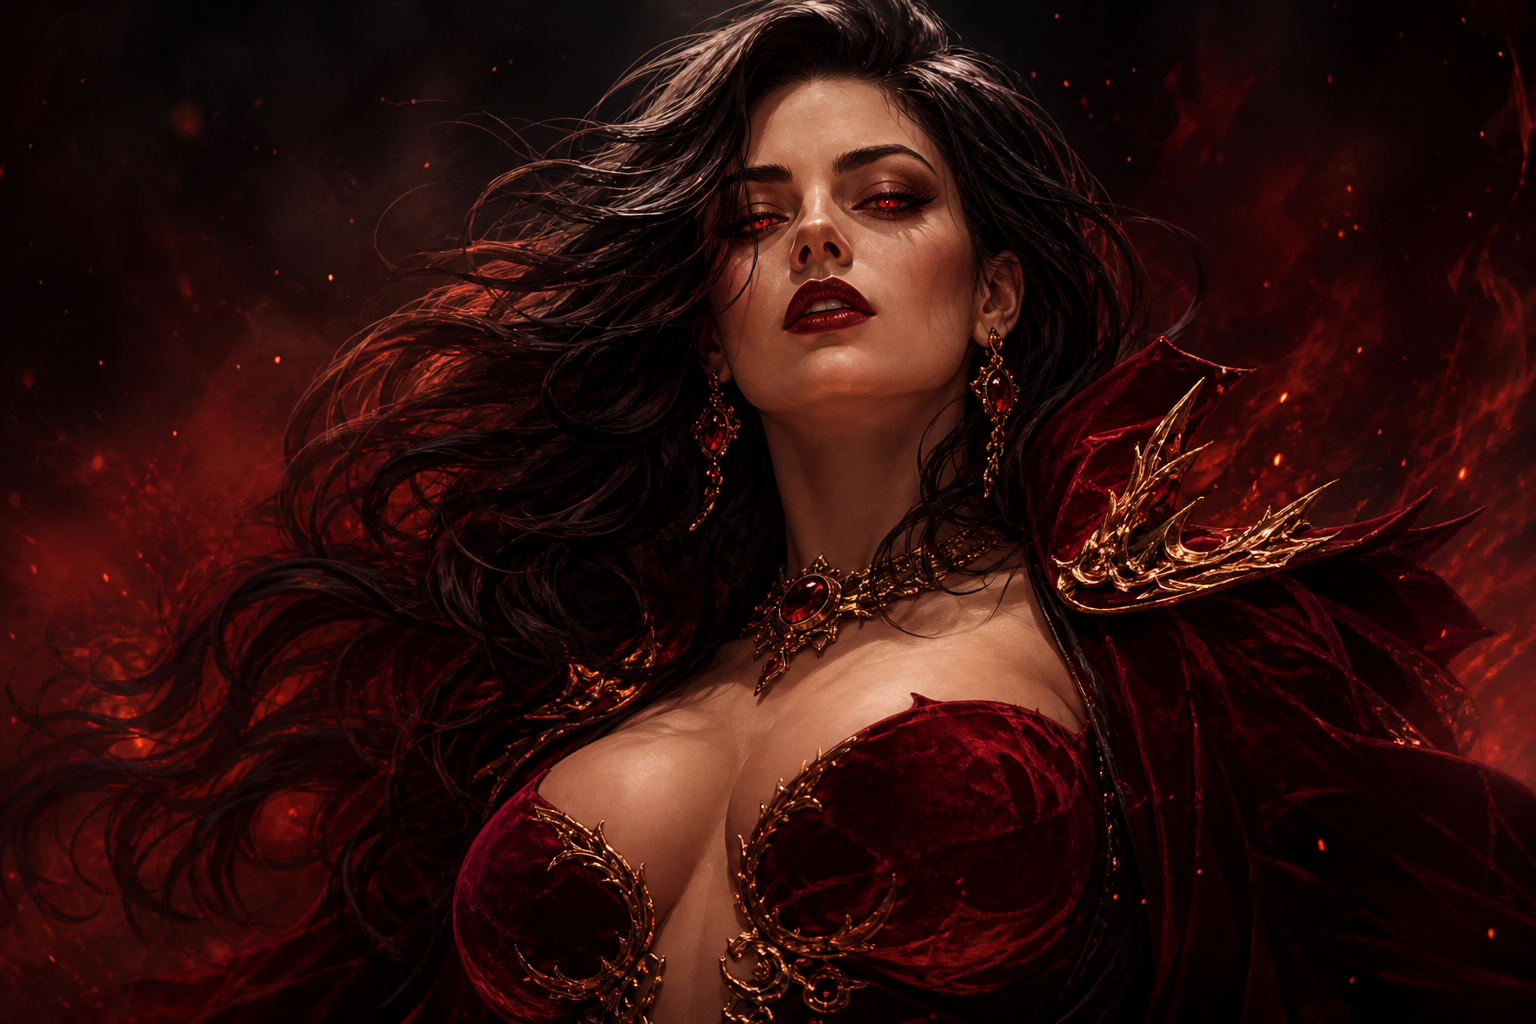
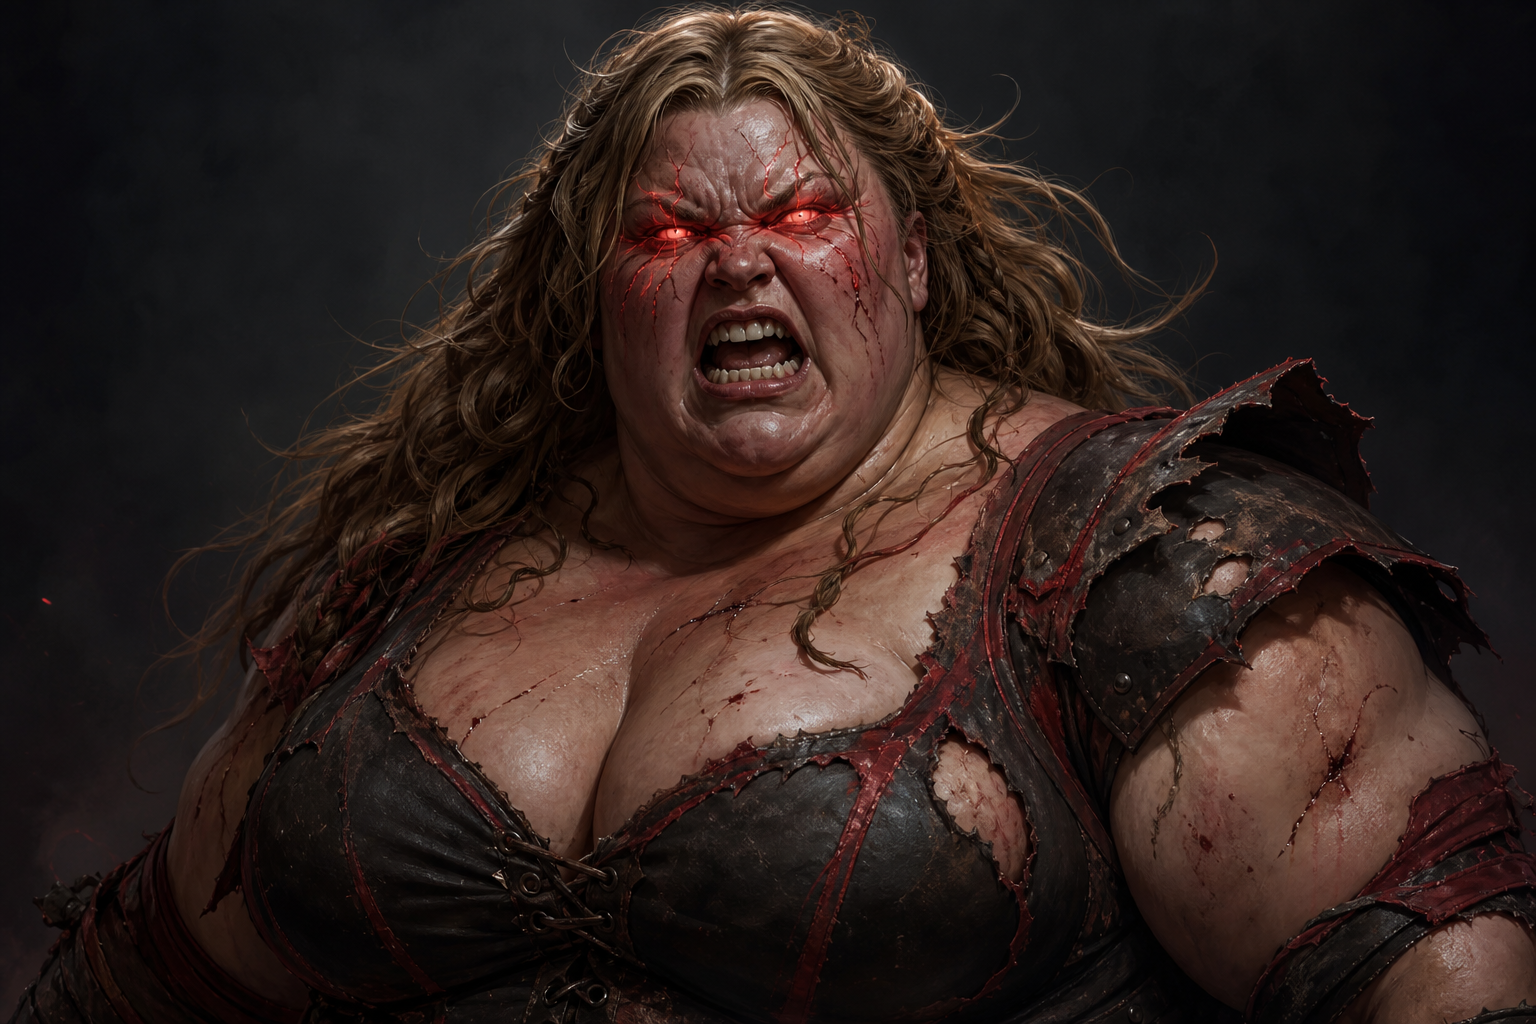
Strip leftover NuggetBot flavor from boss art and drug rewards (#11)
Replace the Hannah glam portraits (and flat fallbacks) with the armored
Velvet Vixen pack, rewrite stored "Hannah" boss names at display time,
and retheme NuggetBot cannabis strain names so trivia/stash drops read
as nightlife product instead of Blue Dream / greenleaf nugget bags.

diff --git a/cogs/boss.py b/cogs/boss.py
@@ -642,9 +642,11 @@ class Boss(commands.Cog):
             return BOSS_NAME_FREAKY_NIKKI
         if variant == "world_leviathan":
             return BOSS_NAME_LEVIATHAN
-        if fallback:
-            return fallback
-        return BOSS_NAME
+        name = (fallback or BOSS_NAME).strip()
+        lowered = name.lower()
+        if "hannah" in lowered or "nuggetbot" in lowered:
+            return BOSS_NAME
+        return name or BOSS_NAME
 
     async def _complete_boss_defeat(
         self,
@@ -1100,9 +1102,9 @@ class Boss(commands.Cog):
                 variant = "freaky_nikki"
             elif roll < ultra + nikki + tomass:
                 variant = "tomass"
-                mirrored_variant = random.choice(config.HANNAH_SPAWN_VARIANTS)
+                mirrored_variant = random.choice(config.VELVET_SPAWN_VARIANTS)
             else:
-                variant = random.choice(config.HANNAH_SPAWN_VARIANTS)
+                variant = random.choice(config.VELVET_SPAWN_VARIANTS)
 
         if variant == "tomass":
             hp = await self._spawn_boss(
@@ -1269,8 +1271,9 @@ class Boss(commands.Cog):
         variant = str(boss_row["variant"])
         bar = hp_bar(hp, max_hp)
         pct = int(round(100 * hp / max_hp)) if max_hp > 0 else 0
+        boss_label = self._boss_display_name(variant, str(boss_row["name"]))
         embed = discord.Embed(
-            title=f"{variant.title()} {boss_row['name']}",
+            title=f"{variant.title()} {boss_label}",
             description=f"`{bar}` **{pct}%**",
             color=discord.Color.dark_red(),
         )
@@ -1639,7 +1642,7 @@ class Boss(commands.Cog):
 
         bar = hp_bar(boss_hp, boss_max)
         pct = int(round(100 * boss_hp / boss_max)) if boss_max > 0 else 0
-        active_name = str(updated["name"])
+        active_name = self._boss_display_name(str(updated["variant"]), str(updated["name"]))
         embed = discord.Embed(
             title=f"{member.display_name} → {active_name}",
             color=discord.Color.green() if attack_critical else discord.Color.blurple(),
@@ -2018,7 +2021,7 @@ class Boss(commands.Cog):
         victim_class = await self.bot.db.get_class_id(victim_id, guild_id)
         reflect = roll_jester_reflect(victim_class)
         if reflect.proc:
-            boss_name = str(boss_row["name"])
+            boss_name = self._boss_display_name(variant, str(boss_row["name"]))
             damage_rows = await self.bot.db.list_boss_damage(guild_id)
             raiders = [int(r["user_id"]) for r in damage_rows if int(r["user_id"]) != victim_id]
             steal = 0.0
@@ -2086,7 +2089,7 @@ class Boss(commands.Cog):
             armor_text = f" {loadout.armor.name} mitigates {mitigated} ({pct}%)."
         crit_text = " Critical blow!" if critical else ""
         threat = int(config.BOSS_VARIANTS[variant]["threat"])
-        boss_name = str(boss_row["name"])
+        boss_name = self._boss_display_name(variant, str(boss_row["name"]))
         if hp <= 0:
             downed_seconds = await self._downed_duration_seconds(victim_id, guild_id)
             await self.bot.db.set_downed_until(victim_id, guild_id, time.time() + downed_seconds)
@@ -2205,7 +2208,7 @@ class Boss(commands.Cog):
             lines.append(f"**{index}.** {name} — **{fmt_amount(dmg)}** ({share}%)")
 
         embed = discord.Embed(
-            title=f"Raid damage — {boss['variant'].title()} {boss['name']}",
+            title=f"Raid damage — {boss['variant'].title()} {self._boss_display_name(str(boss['variant']), str(boss['name']))}",
             description="\n".join(lines),
             color=discord.Color.orange(),
         )

diff --git a/tests/test_businesses.py b/tests/test_businesses.py
@@ -662,8 +662,8 @@ class EndgameDatabaseTests(unittest.IsolatedAsyncioTestCase):
 class DrugMathTests(unittest.TestCase):
     def test_catalog(self) -> None:
         self.assertEqual(len(DRUGS), 27)
-        self.assertEqual(drug_by_id("blue_dream").name, "Blue Dream")
-        self.assertEqual(drug_by_id("greenleaf").name, "Blue Dream")
+        self.assertEqual(drug_by_id("blue_dream").name, "Velvet Dream")
+        self.assertEqual(drug_by_id("greenleaf").name, "Velvet Dream")
         self.assertEqual(drug_by_id("cocaine").category, "stimulant")
         self.assertEqual(drug_by_id("addies").category, "stimulant")
         self.assertEqual(drug_by_id("wockhardt").category, "lean")
@@ -824,7 +824,7 @@ class DrugDatabaseTests(unittest.IsolatedAsyncioTestCase):
         await self._stock_product(uid, guild_id, "og_kush", 2)
         result = await self.db.consume_drug(uid, guild_id, "og_kush", max_hp=200.0)
         self.assertIsNone(result["error"])
-        self.assertEqual(result["name"], "OG Kush")
+        self.assertEqual(result["name"], "Afterhours Kush")
         self.assertGreater(float(result["heal_amount"]), 0)
         inv = await self.db.get_drug_inventory(uid, guild_id)
         self.assertEqual(inv.get("og_kush"), 1)
@@ -835,7 +835,7 @@ class DrugDatabaseTests(unittest.IsolatedAsyncioTestCase):
         await self._stock_product(uid, guild_id, "greenleaf", 1)
         result = await self.db.consume_drug(uid, guild_id, "blue_dream", max_hp=200.0)
         self.assertIsNone(result["error"])
-        self.assertEqual(result["name"], "Blue Dream")
+        self.assertEqual(result["name"], "Velvet Dream")
         inv = await self.db.get_drug_inventory(uid, guild_id)
         self.assertEqual(inv.get("blue_dream", 0), 0)
 
@@ -847,7 +847,7 @@ class DrugDatabaseTests(unittest.IsolatedAsyncioTestCase):
         self.assertIsNone(consumed["error"])
         pending = await self.db.peek_pending_drug_buff(uid, guild_id)
         self.assertIsNotNone(pending)
-        self.assertEqual(pending["name"], "Girl Scout Cookies")
+        self.assertEqual(pending["name"], "Stage-Door Cookies")
         self.assertGreater(float(pending["boss_mult"]), 1.0)
         taken = await self.db.take_pending_drug_buff(uid, guild_id)
         self.assertIsNotNone(taken)

diff --git a/utils/drugs.py b/utils/drugs.py
@@ -50,43 +50,43 @@ class DrugDef:
 DRUGS: tuple[DrugDef, ...] = (
     # --- Cannabis (THC strains) ---
     DrugDef(
-        "blue_dream", "Blue Dream", "🌿", "cannabis",
+        "blue_dream", "Velvet Dream", "💋", "cannabis",
         200.0, 30 * 60, 4, 8, 120.0,
         "Relaxed focus — +10 energy, heal 5% HP.",
         effect_energy=10, effect_heal_pct=0.05,
     ),
     DrugDef(
-        "og_kush", "OG Kush", "🍃", "cannabis",
+        "og_kush", "Afterhours Kush", "🌙", "cannabis",
         350.0, 45 * 60, 4, 7, 180.0,
         "Heavy indica — heal 10% HP.",
         effect_heal_pct=0.10,
     ),
     DrugDef(
-        "girl_scout_cookies", "Girl Scout Cookies", "🍪", "cannabis",
+        "girl_scout_cookies", "Stage-Door Cookies", "🍪", "cannabis",
         600.0, 60 * 60, 3, 7, 280.0,
         "Sweet hybrid — next **/attack** deals +15% boss damage.",
         effect_boss_mult=1.15,
     ),
     DrugDef(
-        "purple_haze", "Purple Haze", "💜", "cannabis",
+        "purple_haze", "Club Haze", "💜", "cannabis",
         900.0, 75 * 60, 3, 6, 420.0,
         "Psychedelic sativa — next **/duel** deals +15% strike damage.",
         effect_duel_mult=1.15,
     ),
     DrugDef(
-        "sour_diesel", "Sour Diesel", "⛽", "cannabis",
+        "sour_diesel", "Floor Diesel", "⛽", "cannabis",
         1_200.0, 90 * 60, 3, 6, 550.0,
         "Energizing diesel — +20 energy.",
         effect_energy=20,
     ),
     DrugDef(
-        "gorilla_glue", "Gorilla Glue", "🦍", "cannabis",
+        "gorilla_glue", "Booth Glue", "🖤", "cannabis",
         1_800.0, 2 * 3600, 3, 5, 750.0,
         "Sticky knockout — heal 15% HP and +10 energy.",
         effect_heal_pct=0.15, effect_energy=10,
     ),
     DrugDef(
-        "white_widow", "White Widow", "🕸", "cannabis",
+        "white_widow", "White Heat", "🔥", "cannabis",
         2_500.0, 3 * 3600, 2, 5, 950.0,
         "Balanced classic — +5 energy, next **/attack** +10% damage.",
         effect_energy=5, effect_boss_mult=1.10,

diff --git a/utils/drug_art.py b/utils/drug_art.py
@@ -116,11 +116,13 @@ def _label_bar(canvas: Image.Image, name: str, defn: object, color: tuple[int, i
 
 def render_drug_image(drug_id: str) -> bytes:
     defn = drug_by_id(drug_id)
+    canonical = defn.drug_id if defn else drug_id
     name = defn.name if defn else "Product"
-    color = _STRAIN_COLORS.get(drug_id, _STRAIN_COLORS.get(defn.drug_id if defn else "", (160, 160, 170)))
-    rng = _rng(drug_id)
+    color = _STRAIN_COLORS.get(canonical, _STRAIN_COLORS.get(drug_id, (160, 160, 170)))
+    rng = _rng(canonical)
 
-    base = _static_asset(drug_id)
+    # Prefer canonical art so leftover NuggetBot ids (greenleaf, etc.) never show.
+    base = _static_asset(canonical)
     if base is not None:
         try:
             canvas = _cover_resize(Image.open(base).convert("RGB"), WIDTH, HEIGHT)

diff --git a/tests/test_trivia_rewards.py b/tests/test_trivia_rewards.py
@@ -57,6 +57,15 @@ class TriviaRewardMathTests(unittest.TestCase):
         ):
             self.assertEqual(roll_trivia_drug(), "blue_dream")
 
+    def test_trivia_drug_display_is_goonbot_named(self) -> None:
+        from utils.drugs import drug_by_id
+
+        defn = drug_by_id("blue_dream")
+        assert defn is not None
+        self.assertEqual(defn.name, "Velvet Dream")
+        self.assertNotIn("nugget", defn.name.lower())
+        self.assertNotEqual(defn.name, "Blue Dream")
+
     def test_normalize_strips_punctuation(self) -> None:
         self.assertEqual(normalize_trivia_guess("Hello!"), "hello")
         self.assertEqual(normalize_trivia_guess("  goonbux. "), "goonbux")

diff --git a/tests/test_velvet_art.py b/tests/test_velvet_art.py
@@ -49,6 +49,14 @@ class VelvetArtTests(unittest.TestCase):
         self.assertNotIn("_", art.filename)
         self.assertEqual(embed.to_dict()["image"]["url"], art.uri)
 
+    def test_hannah_stored_name_is_rewritten(self) -> None:
+        from cogs.boss import Boss
+
+        self.assertEqual(Boss._boss_display_name("normal", "Hannah"), "Velvet Vixen")
+        self.assertEqual(Boss._boss_display_name("enraged", "Hannah Hentai"), "Velvet Vixen")
+        self.assertEqual(Boss._boss_display_name("shadow", "Velvet Vixen"), "Velvet Vixen")
+        self.assertEqual(Boss._boss_display_name("tomass", "Hannah"), "TomAss")
+
 
 if __name__ == "__main__":
     unittest.main()

diff --git a/config.py b/config.py
@@ -470,7 +470,7 @@ FREAKY_NIKKI_CONSUMABLE_QTY_RANGE = (1, 2)
 FREAKY_NIKKI_ART_URLS: dict[str, str] = {}
 BOSS_AUTO_SPAWN_TOMASS_CHANCE = 0.03
 BOSS_DISPLAY_NAME = "Velvet Vixen"
-HANNAH_SPAWN_VARIANTS: tuple[str, ...] = ("normal", "enraged", "shadow", "celestial", "mythic")
+VELVET_SPAWN_VARIANTS: tuple[str, ...] = ("normal", "enraged", "shadow", "celestial", "mythic")
 # Velvet Vixen portrait pack: "glam" (seductive), "armored" (warrior), or "both" (random each attach).
 VELVET_VIXEN_ART_STYLE = os.getenv("VELVET_VIXEN_ART_STYLE", "both").strip().lower() or "both"
 # Dashboard summon dropdown — special bosses first, then Velvet Vixen tiers.

diff --git a/utils/bot_room.py b/utils/bot_room.py
@@ -232,8 +232,7 @@ async def channel_is_allowed_bot_room(
 def bot_room_required_message(bot_room: discord.abc.GuildChannel | None) -> str:
     if bot_room is not None:
         return (
-            f"GoonBot only runs in {bot_room.mention} "
-            f"(the NuggetIvitesBot / bot room). Use that channel. "
+            f"GoonBot only runs in {bot_room.mention}. Use that channel. "
             f"Lore Roulette (`/trivia`) also runs in #yappinmain."
         )
     return (

diff --git a/tests/test_consumables_ui.py b/tests/test_consumables_ui.py
@@ -59,7 +59,7 @@ class UsePanelTests(unittest.IsolatedAsyncioTestCase):
         self.assertIsNone(err)
         self.assertIsNotNone(message)
         assert message is not None
-        self.assertIn("Blue Dream", message)
+        self.assertIn("Velvet Dream", message)
 
     async def test_execute_use_energy_drink(self) -> None:
         from utils.consumables_ui import execute_use

diff --git a/README.md b/README.md
@@ -109,7 +109,7 @@ Unstable gear gives **no stat bonuses** until repaired for **80%** of the item's
 
 | Command | Description |
 |---------|-------------|
-| `/hack @user` | Start the hannah hentai hanta virus; usable every 5 minutes per user |
+| `/hack @user` | Start the Velvet Vixen love virus; usable every 5 minutes per user |
 | `/transfer @user` | Pass the virus to someone else and give them the timer |
 
 ### Boss
